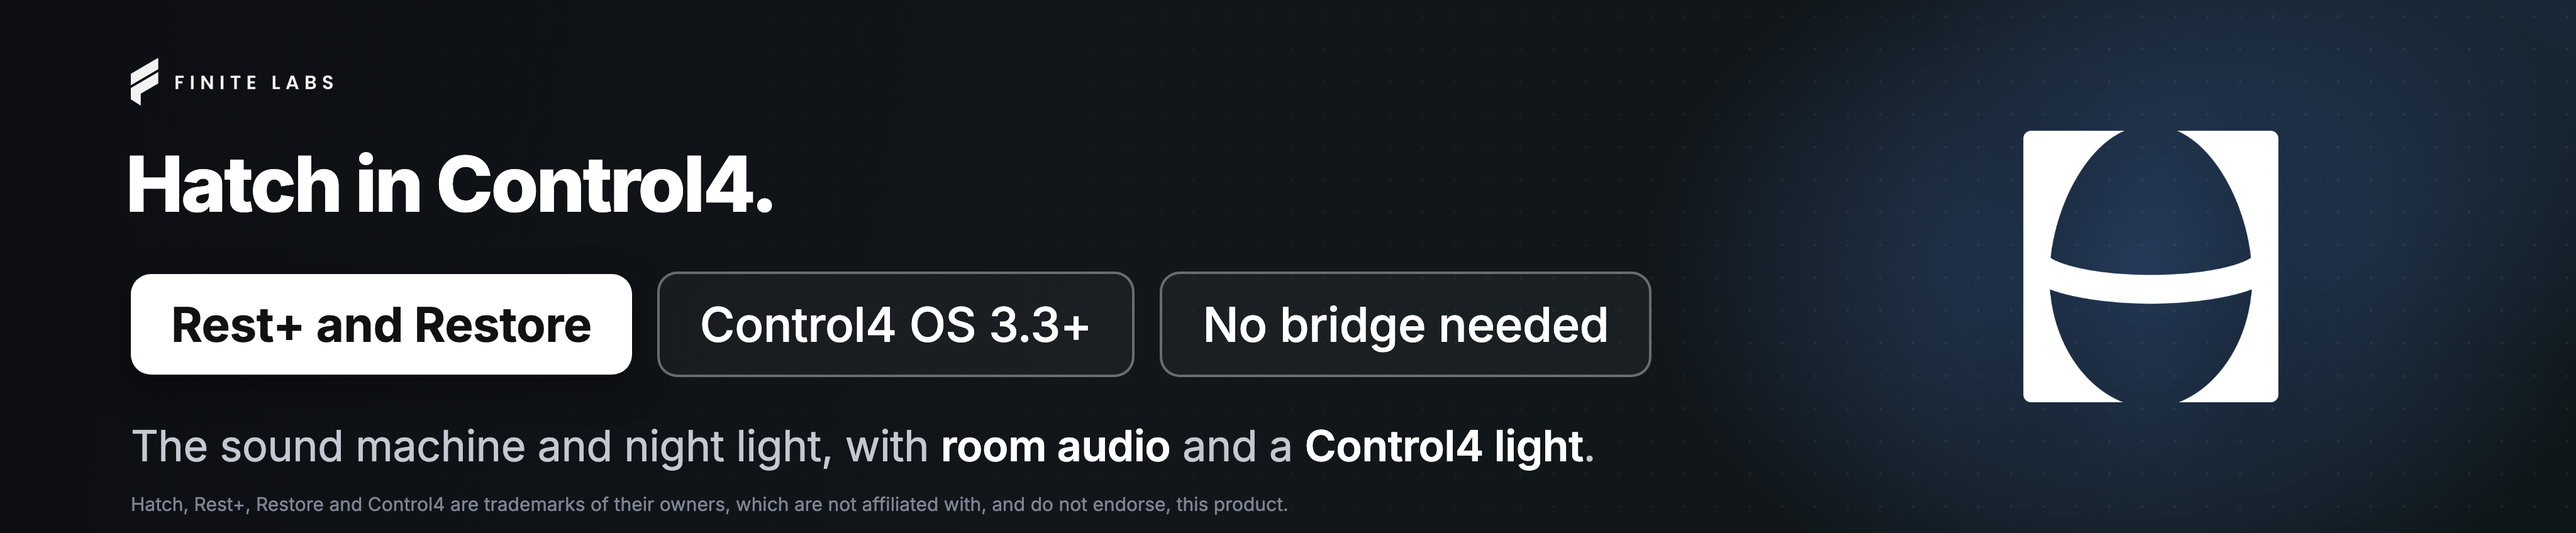
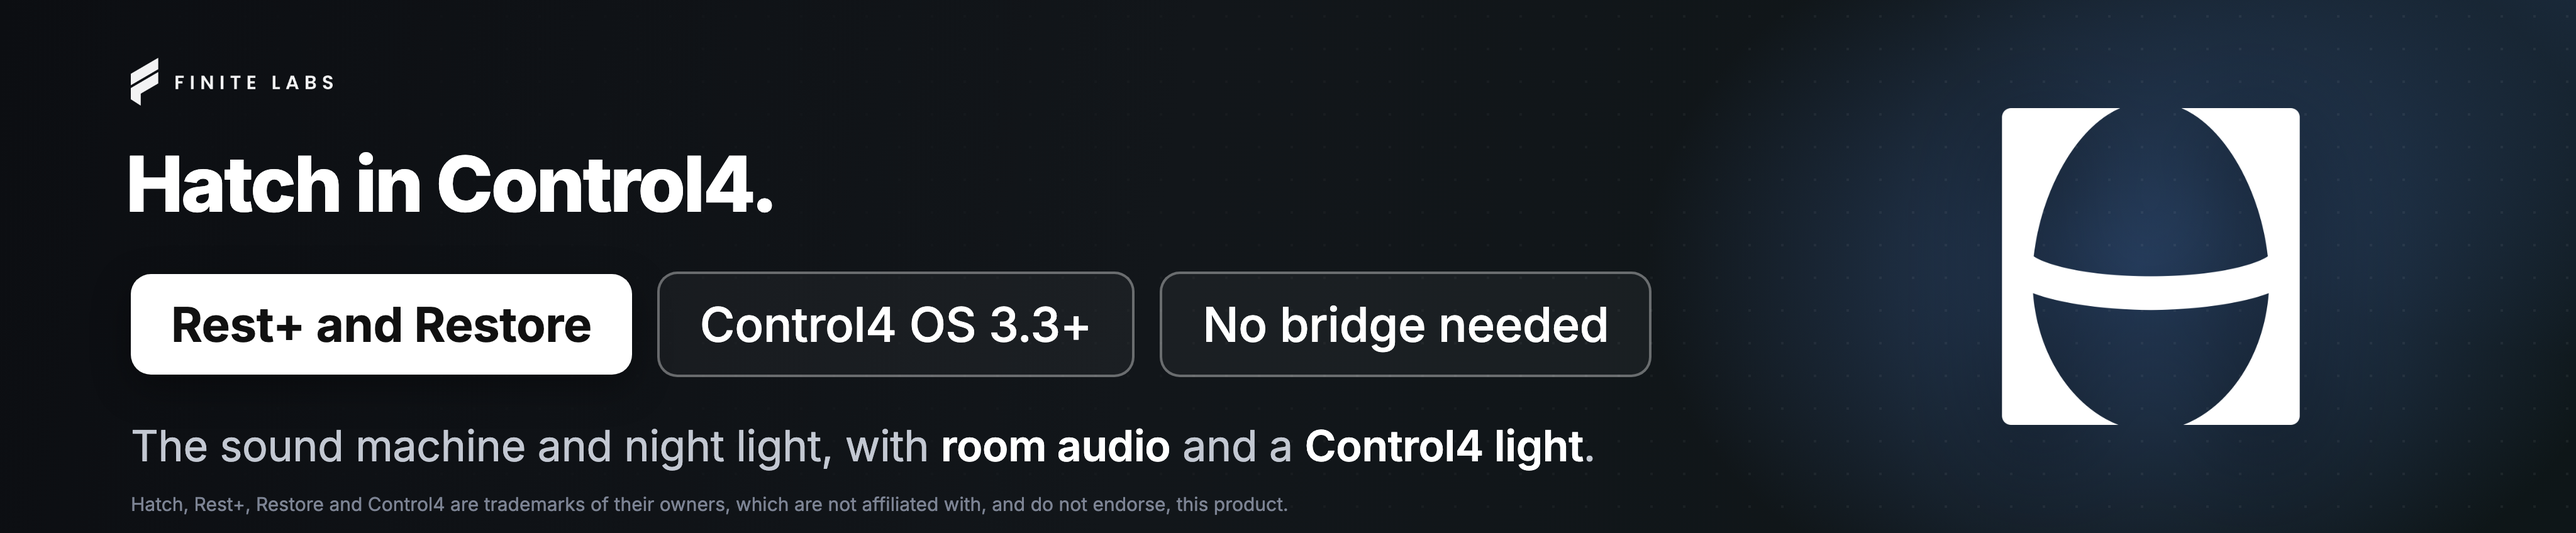
chore: the spotlight and launch-post marks are sized up to match across the drivers

Changed region(s): [[0.75, 0.184, 0.9062, 0.7972]]

diff --git a/resources/drivercentral/banners/spotlight-4096x848.html b/resources/drivercentral/banners/spotlight-4096x848.html
@@ -20,7 +20,7 @@
   .chip.line { color: #fff; border: 2px solid rgba(255,255,255,0.35); background: rgba(255,255,255,0.04); font-weight: 500; }
   .sub { position: absolute; left: 104px; top: 334px; color: #c3c8d2; font-size: 34px; font-weight: 400; letter-spacing: -0.005em; white-space: nowrap; }
   .sub em { font-style: normal; color: #fff; font-weight: 600; }
-  .mark { position: absolute; left: 1608px; top: 104px; width: 204px; height: 216px; object-fit: contain; filter: drop-shadow(0 18px 40px rgba(0,0,0,0.45)); }
+  .mark { position: absolute; left: 1591px; top: 86px; width: 238px; height: 252px; object-fit: contain; filter: drop-shadow(0 18px 40px rgba(0,0,0,0.45)); }
   .note { position: absolute; left: 104px; bottom: 14px; color: #7d8494; font-size: 15px; letter-spacing: 0; white-space: nowrap; }
 </style></head>
 <body>

diff --git a/resources/drivercentral/banners/launch-post-2400x1200.html b/resources/drivercentral/banners/launch-post-2400x1200.html
@@ -21,7 +21,7 @@
   .chip.line { color: #fff; border: 1.5px solid rgba(255,255,255,0.35); background: rgba(255,255,255,0.04); font-weight: 500; }
   .sub { margin: 32px 0 0 2px; color: #c3c8d2; font-size: 24px; line-height: 1.4; font-weight: 400; letter-spacing: -0.005em; }
   .sub em { font-style: normal; color: #fff; font-weight: 600; }
-  .mark { position: absolute; left: 852px; top: 213px; width: 163px; height: 173px; object-fit: contain; filter: drop-shadow(0 14px 32px rgba(0,0,0,0.45)); }
+  .mark { position: absolute; left: 799px; top: 161px; width: 262px; height: 278px; object-fit: contain; filter: drop-shadow(0 14px 32px rgba(0,0,0,0.45)); }
   .note { position: absolute; left: 74px; right: 74px; bottom: 20px; color: #7d8494; font-size: 13px; line-height: 1.35; }
 </style></head>
 <body>
